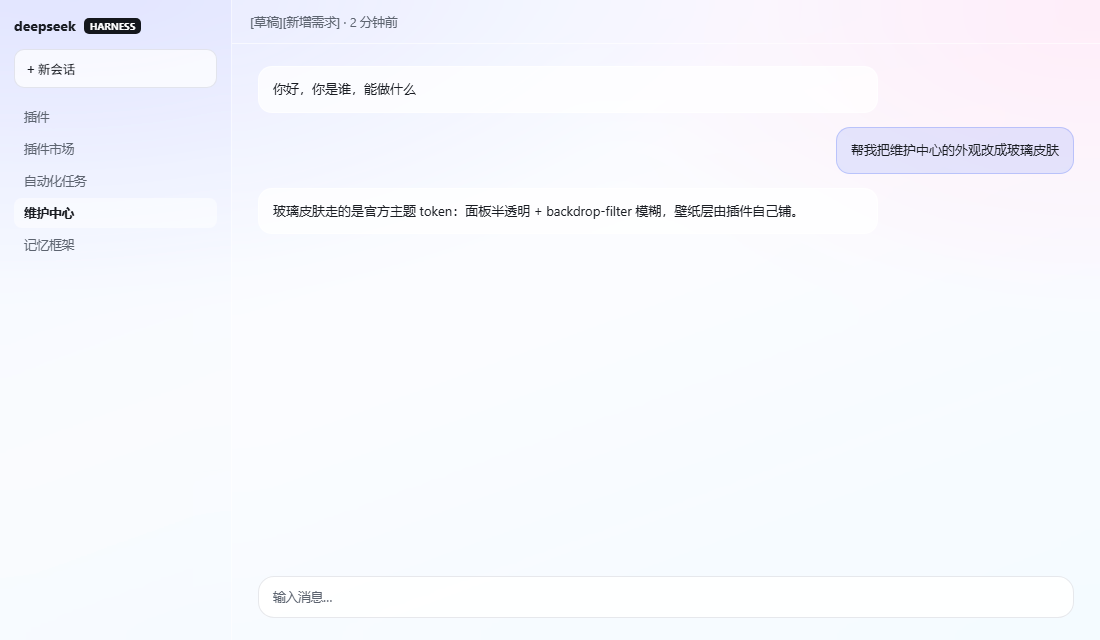
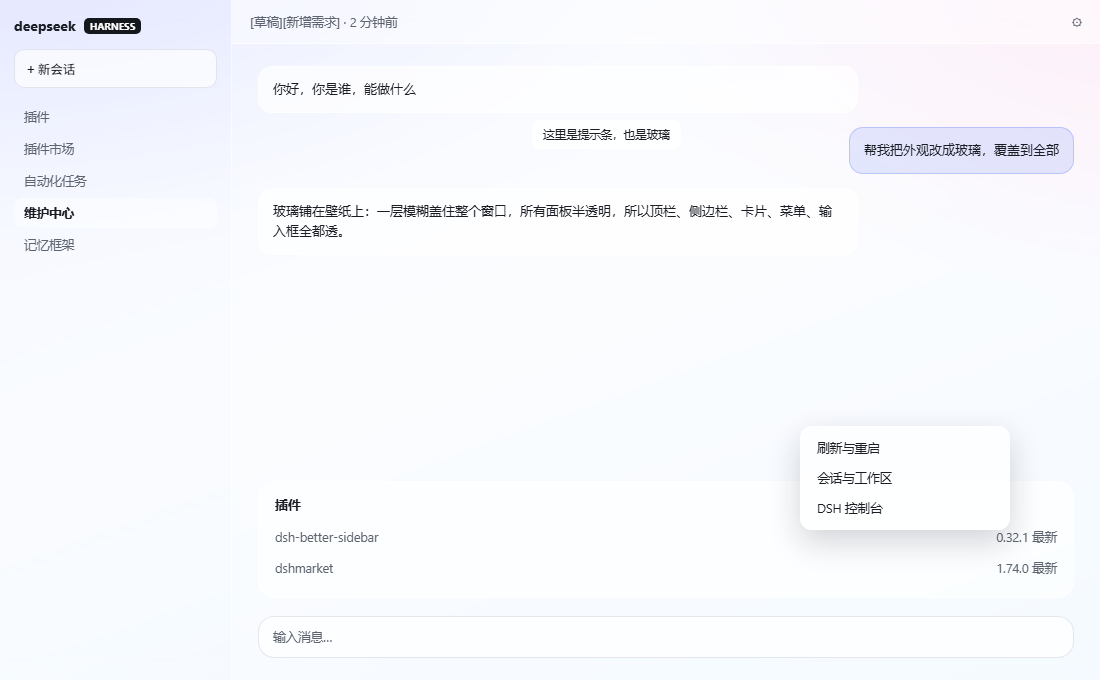
feat: glass covers every surface (41 tokens) with wallpaper-level blur, release 0.1.39

diff --git a/docs/glass-preview.html b/docs/glass-preview.html
@@ -2,50 +2,55 @@
 <html lang="zh-CN">
 <head>
 <meta charset="utf-8">
-<title>玻璃皮肤预览</title>
+<title>玻璃皮肤预览（全表面）</title>
 <style>
   :root {
-    --dsw-specific-sidebar-fill: rgba(255, 255, 255, 0.42);
-    --dsw-alias-bg-base: rgba(255, 255, 255, 0.55);
-    --dsw-alias-bg-layer-1: rgba(255, 255, 255, 0.72);
-    --dsw-alias-bg-layer-2: rgba(255, 255, 255, 0.5);
+    --dsw-specific-sidebar-fill: rgba(255, 255, 255, 0.4);
+    --dsw-alias-bg-base: rgba(255, 255, 255, 0.5);
+    --dsw-alias-bg-layer-1: rgba(255, 255, 255, 0.66);
+    --dsw-alias-bg-layer-2: rgba(255, 255, 255, 0.44);
+    --dsw-alias-card-fill: rgba(255, 255, 255, 0.62);
+    --dsw-menu-surface-fill: rgba(255, 255, 255, 0.74);
+    --dsw-alias-tooltip-bg: rgba(255, 255, 255, 0.84);
     --dsw-alias-border-l1: rgba(255, 255, 255, 0.6);
     --dsw-alias-border-l2: rgba(120, 130, 150, 0.18);
     --dsw-alias-label-primary: #1a1d23;
     --dsw-alias-label-secondary: #5d6470;
-    --uc-accent: #4f6ef7;
   }
   * { box-sizing: border-box; }
   html, body { margin: 0; height: 100%; background: transparent; font-family: -apple-system, "Segoe UI", "Microsoft YaHei", sans-serif; color: #1a1d23; }
+  /* 磨砂在壁纸上：一层模糊盖住整个窗口，所有半透明面板都跟着透 */
   body::before {
     content: '';
     position: fixed;
-    inset: 0;
+    inset: -8%;
     z-index: -1;
+    filter: blur(30px) saturate(140%);
     background:
       radial-gradient(1100px 560px at 8% -8%, rgba(99, 102, 241, 0.26), transparent 62%),
       radial-gradient(900px 520px at 98% 4%, rgba(236, 72, 153, 0.16), transparent 58%),
       linear-gradient(160deg, #eef2ff 0%, #f7f9fc 46%, #eaf4ff 100%);
   }
   .app { display: flex; height: 100vh; }
-  .sidebar {
-    width: 232px; flex: none; padding: 16px 14px;
-    background: var(--dsw-specific-sidebar-fill);
-    border-right: 1px solid var(--dsw-alias-border-l1);
-    backdrop-filter: blur(18px) saturate(150%);
-    -webkit-backdrop-filter: blur(18px) saturate(150%);
-  }
+  .sidebar { width: 232px; flex: none; padding: 16px 14px; background: var(--dsw-specific-sidebar-fill); border-right: 1px solid var(--dsw-alias-border-l1); }
   .brand { display: flex; align-items: center; gap: 8px; font-weight: 700; font-size: 14px; margin-bottom: 14px; }
   .newchat { width: 100%; padding: 9px 12px; border-radius: 10px; border: 1px solid var(--dsw-alias-border-l2); background: var(--dsw-alias-bg-layer-1); font-size: 12.5px; text-align: left; color: inherit; }
   .nav { margin-top: 14px; display: flex; flex-direction: column; gap: 2px; font-size: 12.5px; color: var(--dsw-alias-label-secondary); }
   .nav div { padding: 7px 10px; border-radius: 8px; }
   .nav div.on { background: var(--dsw-alias-bg-layer-2); color: var(--dsw-alias-label-primary); font-weight: 600; }
-  .main { flex: 1; min-width: 0; display: flex; flex-direction: column; background: var(--dsw-alias-bg-base); backdrop-filter: blur(18px) saturate(150%); -webkit-backdrop-filter: blur(18px) saturate(150%); }
-  .topbar { height: 44px; display: flex; align-items: center; padding: 0 18px; font-size: 12.5px; color: var(--dsw-alias-label-secondary); border-bottom: 1px solid var(--dsw-alias-border-l1); }
+  .main { flex: 1; min-width: 0; display: flex; flex-direction: column; background: var(--dsw-alias-bg-base); position: relative; }
+  .topbar { height: 44px; display: flex; align-items: center; justify-content: space-between; padding: 0 18px; font-size: 12.5px; color: var(--dsw-alias-label-secondary); border-bottom: 1px solid var(--dsw-alias-border-l1); background: var(--dsw-alias-bg-layer-2); }
   .chat { flex: 1; padding: 22px 26px; display: flex; flex-direction: column; gap: 14px; overflow: hidden; }
-  .msg { max-width: 620px; padding: 12px 14px; border-radius: 14px; font-size: 13px; line-height: 1.6; background: var(--dsw-alias-bg-layer-1); border: 1px solid var(--dsw-alias-border-l1); }
+  .msg { max-width: 600px; padding: 12px 14px; border-radius: 14px; font-size: 13px; line-height: 1.6; background: var(--dsw-alias-bg-layer-1); border: 1px solid var(--dsw-alias-border-l1); }
   .msg.me { align-self: flex-end; background: rgba(79, 110, 247, 0.14); border-color: rgba(79, 110, 247, 0.28); }
-  .composer { margin: 0 26px 22px; padding: 12px 14px; border-radius: 16px; background: var(--dsw-alias-bg-layer-1); border: 1px solid var(--dsw-alias-border-l2); font-size: 12.5px; color: var(--dsw-alias-label-secondary); backdrop-filter: blur(18px) saturate(150%); -webkit-backdrop-filter: blur(18px) saturate(150%); }
+  .composer { margin: 0 26px 22px; padding: 12px 14px; border-radius: 16px; background: var(--dsw-alias-bg-layer-1); border: 1px solid var(--dsw-alias-border-l2); font-size: 12.5px; color: var(--dsw-alias-label-secondary); }
+  .card { margin: 0 26px 18px; padding: 14px 16px; border-radius: 16px; background: var(--dsw-alias-card-fill); border: 1px solid var(--dsw-alias-border-l1); font-size: 12.5px; }
+  .card h4 { margin: 0 0 8px; font-size: 13px; }
+  .row { display: flex; justify-content: space-between; padding: 7px 0; border-top: 1px solid rgba(255,255,255,.5); color: var(--dsw-alias-label-secondary); }
+  .menu { position: absolute; right: 90px; bottom: 150px; width: 210px; padding: 6px; border-radius: 12px; background: var(--dsw-menu-surface-fill); border: 1px solid var(--dsw-alias-border-l1); backdrop-filter: blur(20px) saturate(150%); -webkit-backdrop-filter: blur(20px) saturate(150%); box-shadow: 0 12px 32px rgba(20,24,40,.18); font-size: 12.5px; }
+  .menu div { padding: 7px 10px; border-radius: 8px; color: var(--dsw-alias-label-primary); }
+  .menu div:hover { background: var(--dsw-alias-bg-layer-2); }
+  .tip { position: absolute; left: 300px; top: 120px; padding: 6px 10px; border-radius: 8px; background: var(--dsw-alias-tooltip-bg); border: 1px solid var(--dsw-alias-border-l1); font-size: 11.5px; backdrop-filter: blur(20px) saturate(150%); }
 </style>
 </head>
 <body>
@@ -62,13 +67,24 @@
       </nav>
     </aside>
     <main class="main">
-      <div class="topbar">[草稿][新增需求] · 2 分钟前</div>
+      <div class="topbar"><span>[草稿][新增需求] · 2 分钟前</span><span>⚙</span></div>
       <div class="chat">
         <div class="msg">你好，你是谁，能做什么</div>
-        <div class="msg me">帮我把维护中心的外观改成玻璃皮肤</div>
-        <div class="msg">玻璃皮肤走的是官方主题 token：面板半透明 + backdrop-filter 模糊，壁纸层由插件自己铺。</div>
+        <div class="msg me">帮我把外观改成玻璃，覆盖到全部</div>
+        <div class="msg">玻璃铺在壁纸上：一层模糊盖住整个窗口，所有面板半透明，所以顶栏、侧边栏、卡片、菜单、输入框全都透。</div>
+      </div>
+      <div class="card">
+        <h4>插件</h4>
+        <div class="row"><span>dsh-better-sidebar</span><span>0.32.1 最新</span></div>
+        <div class="row"><span>dshmarket</span><span>1.74.0 最新</span></div>
       </div>
       <div class="composer">输入消息…</div>
+      <div class="menu">
+        <div>刷新与重启</div>
+        <div>会话与工作区</div>
+        <div>DSH 控制台</div>
+      </div>
+      <div class="tip">这里是提示条，也是玻璃</div>
     </main>
   </div>
 </body>

diff --git a/client.js b/client.js
@@ -151,12 +151,17 @@ html[data-dsh-noanim="1"] [data-animating] {
     // flat tint. Inert unless html[data-dsh-glass="1"] is on.
     const LOOK_CSS = `
 html[data-dsh-glass="1"], html[data-dsh-glass="1"] body { background: transparent !important; }
+/* The frost lives on the wallpaper itself: one blurred layer covers every
+   translucent surface, instead of paying a backdrop-filter per panel (each one
+   reads the pixels behind it and runs a blur kernel, so the cost scales with
+   area). Panels only keep a light blur where depth reads best: overlays. */
 html[data-dsh-glass="1"] body::before {
   content: '';
   position: fixed;
-  inset: 0;
+  inset: -8%;
   z-index: -1;
   pointer-events: none;
+  filter: blur(30px) saturate(140%);
   background:
     radial-gradient(1100px 560px at 8% -8%, rgba(99, 102, 241, 0.26), transparent 62%),
     radial-gradient(900px 520px at 98% 4%, rgba(236, 72, 153, 0.16), transparent 58%),
@@ -168,13 +173,15 @@ html[data-dsh-glass="1"][data-dsh-glass-scheme="dark"] body::before {
     radial-gradient(900px 520px at 98% 4%, rgba(139, 92, 246, 0.24), transparent 58%),
     linear-gradient(160deg, #0b0e14 0%, #10141c 46%, #0d1219 100%);
 }
-html[data-dsh-glass="1"] [data-conversation-region],
-html[data-dsh-glass="1"] [data-slot="conversation.chat.flow"],
-html[data-dsh-glass="1"] [data-slot="sidebar"],
+html[data-dsh-glass="1"] [role="dialog"],
+html[data-dsh-glass="1"] [role="alertdialog"],
+html[data-dsh-glass="1"] [role="menu"],
+html[data-dsh-glass="1"] [role="listbox"],
+html[data-dsh-glass="1"] [role="tooltip"],
 html[data-dsh-glass="1"] .uc-card,
 html[data-dsh-glass="1"] .uc-banner {
-  backdrop-filter: blur(18px) saturate(150%);
-  -webkit-backdrop-filter: blur(18px) saturate(150%);
+  backdrop-filter: blur(20px) saturate(150%);
+  -webkit-backdrop-filter: blur(20px) saturate(150%);
 }
 `
 
@@ -531,6 +538,60 @@ html[data-dsh-glass="1"] .uc-banner {
       '--dsw-alias-state-business-primary',
     ]
 
+    // 玻璃皮肤要把**所有**画背景的 token 都变半透明，否则总有一块地方是实心的。
+    // 官方一共 65 个背景类 token，这里覆盖真正承载表面的那些：底色、层级、
+    // 卡片、菜单、悬浮卡、提示、输入框、侧边栏、工具条、边框。
+    function glassTokens() {
+      const pair = (light, dark) => ({ light, dark })
+      const fill = (lightAlpha, darkAlpha) => pair(
+        `rgba(255, 255, 255, ${lightAlpha})`,
+        `rgba(20, 24, 32, ${darkAlpha})`,
+      )
+      return {
+        '--dsw-alias-bg-base': fill(0.5, 0.5),
+        '--dsw-alias-bg-layer-1': fill(0.66, 0.66),
+        '--dsw-alias-bg-layer-2': fill(0.44, 0.44),
+        '--dsw-alias-bg-layer-3': fill(0.34, 0.34),
+        '--dsw-alias-bg-overlay': fill(0.55, 0.62),
+        '--dsw-alias-bg-mask-1': fill(0.35, 0.45),
+        '--dsw-alias-bg-mask-2': fill(0.45, 0.55),
+        '--dsw-alias-bg-mask-3': fill(0.55, 0.65),
+        '--dsw-alias-card-fill': fill(0.62, 0.62),
+        '--dsw-alias-card-fill-hover': fill(0.72, 0.72),
+        '--dsw-alias-card-tile-fill': fill(0.58, 0.58),
+        '--dsw-alias-settings-card-fill': fill(0.62, 0.62),
+        '--dsw-alias-settings-card-stroke': pair('rgba(255, 255, 255, 0.6)', 'rgba(255, 255, 255, 0.12)'),
+        '--dsw-alias-onboarding-card-fill': fill(0.62, 0.62),
+        '--dsw-alias-onboarding-secondary-fill': fill(0.5, 0.5),
+        '--dsw-menu-surface-fill': fill(0.74, 0.8),
+        '--dsw-specific-menu': fill(0.74, 0.8),
+        '--dsw-alias-menu-group-header-fill': fill(0.4, 0.4),
+        '--dsw-alias-hovercard-bg': fill(0.76, 0.82),
+        '--dsw-alias-toast-bg': fill(0.78, 0.82),
+        '--dsw-alias-tooltip-bg': fill(0.84, 0.86),
+        '--dsw-alias-tooltip-key-bg': fill(0.6, 0.6),
+        '--dsw-specific-input-major': fill(0.7, 0.7),
+        '--dsw-specific-login-input': fill(0.7, 0.7),
+        '--dsw-specific-sidebar-fill': fill(0.4, 0.46),
+        '--dsw-specific-sidebar-glass-fill': fill(0.4, 0.46),
+        '--dsw-specific-sidebar-glass-collapsed-fill': fill(0.4, 0.46),
+        '--dsw-alias-button-elevated-fill': fill(0.56, 0.56),
+        '--dsw-alias-button-floating-fill': fill(0.62, 0.62),
+        '--dsw-alias-button-tool-bar-fill': fill(0.5, 0.5),
+        '--dsw-alias-turn-trigger-bg': fill(0.55, 0.55),
+        '--dsw-alias-turn-trigger-bg-hover': fill(0.7, 0.7),
+        '--dsw-alias-interactive-bg-hover': fill(0.35, 0.35),
+        '--dsw-menu-backdrop-filter': pair('blur(20px) saturate(150%)', 'blur(20px) saturate(150%)'),
+        '--dsw-alias-border-l1': pair('rgba(255, 255, 255, 0.6)', 'rgba(255, 255, 255, 0.12)'),
+        '--dsw-alias-border-l2': pair('rgba(120, 130, 150, 0.18)', 'rgba(255, 255, 255, 0.18)'),
+        '--dsw-alias-label-primary': pair('#1a1d23', '#e8ebf1'),
+        '--dsw-alias-label-secondary': pair('#5d6470', '#9aa3b2'),
+        '--dsw-radius-md': pair('14px', '14px'),
+        '--dsw-radius-lg': pair('18px', '18px'),
+        '--dsw-radius-panel': pair('18px', '18px'),
+      }
+    }
+
     // 每套皮肤是一组官方 token 覆盖，浅色/深色各一份。
     const LOOK_SKINS = {
       soft: {
@@ -563,21 +624,7 @@ html[data-dsh-glass="1"] .uc-banner {
           '--dsw-radius-panel': { light: '14px', dark: '14px' },
         },
       },
-      glass: {
-        tokens: {
-          '--dsw-specific-sidebar-fill': { light: 'rgba(255, 255, 255, 0.42)', dark: 'rgba(18, 21, 28, 0.45)' },
-          '--dsw-alias-bg-base': { light: 'rgba(255, 255, 255, 0.55)', dark: 'rgba(16, 18, 24, 0.55)' },
-          '--dsw-alias-bg-layer-1': { light: 'rgba(255, 255, 255, 0.72)', dark: 'rgba(22, 26, 34, 0.72)' },
-          '--dsw-alias-bg-layer-2': { light: 'rgba(255, 255, 255, 0.5)', dark: 'rgba(28, 33, 42, 0.5)' },
-          '--dsw-alias-border-l1': { light: 'rgba(255, 255, 255, 0.6)', dark: 'rgba(255, 255, 255, 0.12)' },
-          '--dsw-alias-border-l2': { light: 'rgba(120, 130, 150, 0.18)', dark: 'rgba(255, 255, 255, 0.18)' },
-          '--dsw-alias-label-primary': { light: '#1a1d23', dark: '#e8ebf1' },
-          '--dsw-alias-label-secondary': { light: '#5d6470', dark: '#9aa3b2' },
-          '--dsw-radius-md': { light: '14px', dark: '14px' },
-          '--dsw-radius-lg': { light: '18px', dark: '18px' },
-          '--dsw-radius-panel': { light: '18px', dark: '18px' },
-        },
-      },
+      glass: { tokens: glassTokens() },
       ocean: {
         tokens: {
           '--dsw-specific-sidebar-fill': { light: '#eaf3fb', dark: '#0d1822' },

diff --git a/README.md b/README.md
@@ -24,7 +24,7 @@ DeepSeek Harness 的维护中心：更新应用与插件、管理已装插件、
 - **GitHub 来源**：添加任意仓库并持续检测最新 release；未装的可以装，已装的可以重装；安装时把 HEAD 固定成完整 commit。
 - **从 npm 安装**：填包名或 `包名@版本`。
 - **GitHub Token**：状态标签 + 掩码显示 + 申请链接，额度从 60 次/小时提到 5000 次。
-- **外观**：主题（跟随系统/浅色/深色）、皮肤（柔和/墨色/海洋/玻璃/自定义）、品牌色、字号、代码字体。玻璃皮肤 = 半透明 token + 渐变壁纸 + `backdrop-filter` 模糊。全部走官方主题服务：`setTheme` / `overrideTokens` / `adjustFontSizes` / `setFontFamily`，不注 CSS、不改官方 DOM。走官方主题 API（`theme.overrideTokens`），每个 token 给浅色/深色两份，换主题自动跟随，不注 CSS、不改官方 DOM，DSH 升级也不失效。默认关闭。
+- **外观**：主题（跟随系统/浅色/深色）、皮肤（柔和/墨色/海洋/玻璃/自定义）、品牌色、字号、代码字体。玻璃皮肤覆盖全部表面：41 个背景 token 半透明 + 壁纸层统一模糊，浮层（弹窗/菜单/提示）额外加 `backdrop-filter`。全部走官方主题服务：`setTheme` / `overrideTokens` / `adjustFontSizes` / `setFontFamily`，不注 CSS、不改官方 DOM。走官方主题 API（`theme.overrideTokens`），每个 token 给浅色/深色两份，换主题自动跟随，不注 CSS、不改官方 DOM，DSH 升级也不失效。默认关闭。
 - **目录与配置**：打开插件目录 / 配置 / 安全模式目录。
 - **自动安全模式**开关。
 

diff --git a/CHANGELOG.md b/CHANGELOG.md
@@ -2,6 +2,12 @@
 
 版本规则：每次发版，最后一位 +1（0.1.1 → 0.1.2 → …）。
 
+## 0.1.39
+
+- 玻璃皮肤**覆盖到全部表面**：41 个背景类 token 全部半透明（底色 / 层级 / 卡片 / 菜单 / 悬浮卡 / 提示 / 输入框 / 侧边栏 / 工具条 / 边框），不再只覆盖会话区
+- 磨砂改到壁纸层上（一层 `filter: blur(30px) saturate(140%)`）：`backdrop-filter` 的成本随面积线性涨，叠在每块面板上会掉帧；只有弹窗 / 菜单 / 提示这类小面积浮层保留 `backdrop-filter`
+- 顺带设了官方的 `--dsw-menu-backdrop-filter`，菜单自己就是玻璃
+
 ## 0.1.38
 
 - 外观新增**「玻璃」皮肤**：半透明 token（走官方 `overrideTokens`）+ 插件自铺的渐变壁纸层 + 面板 `backdrop-filter` 模糊
